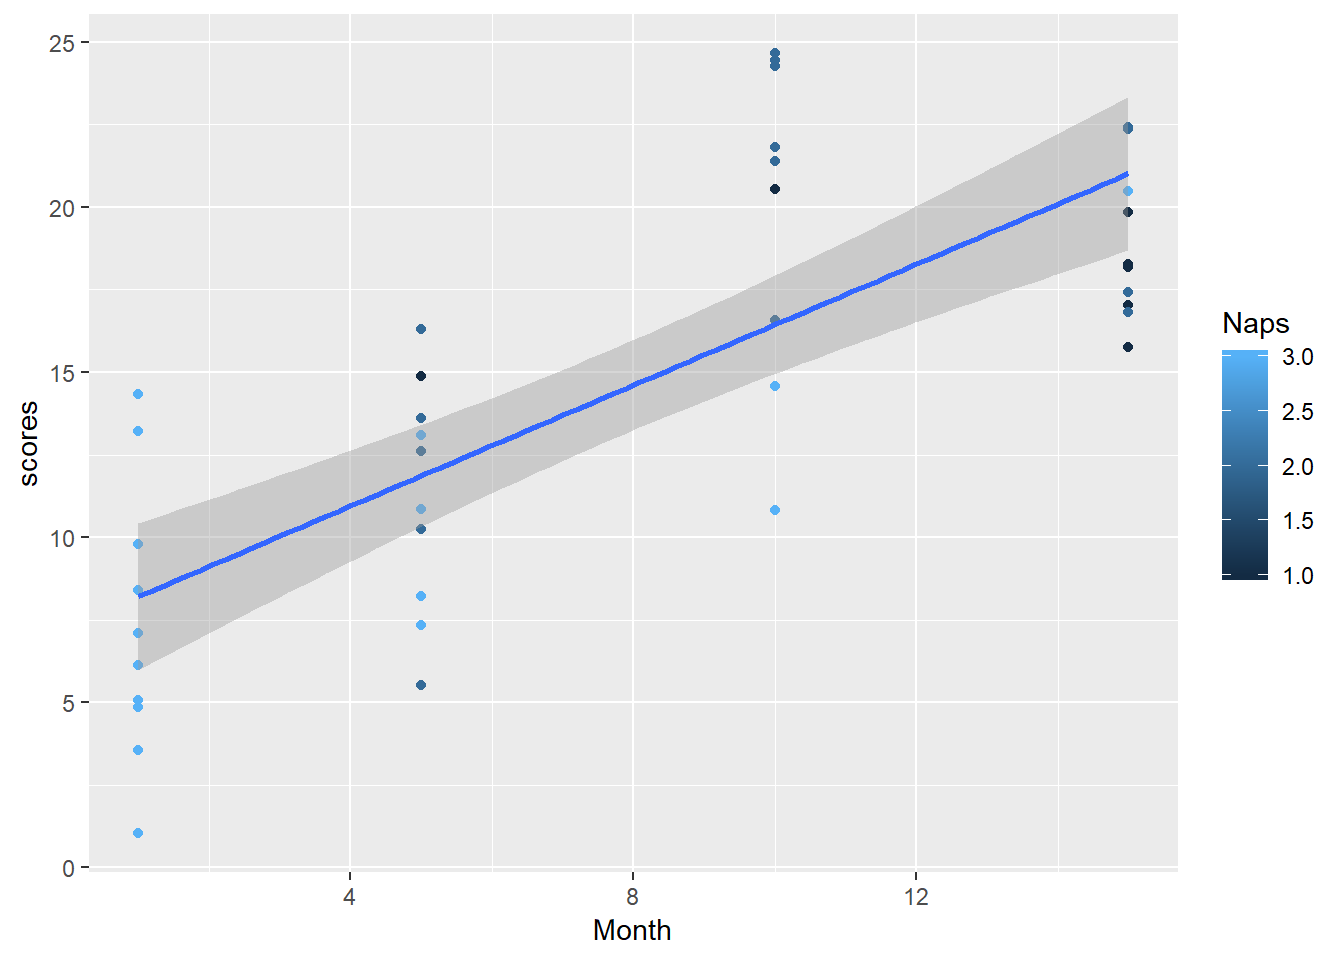
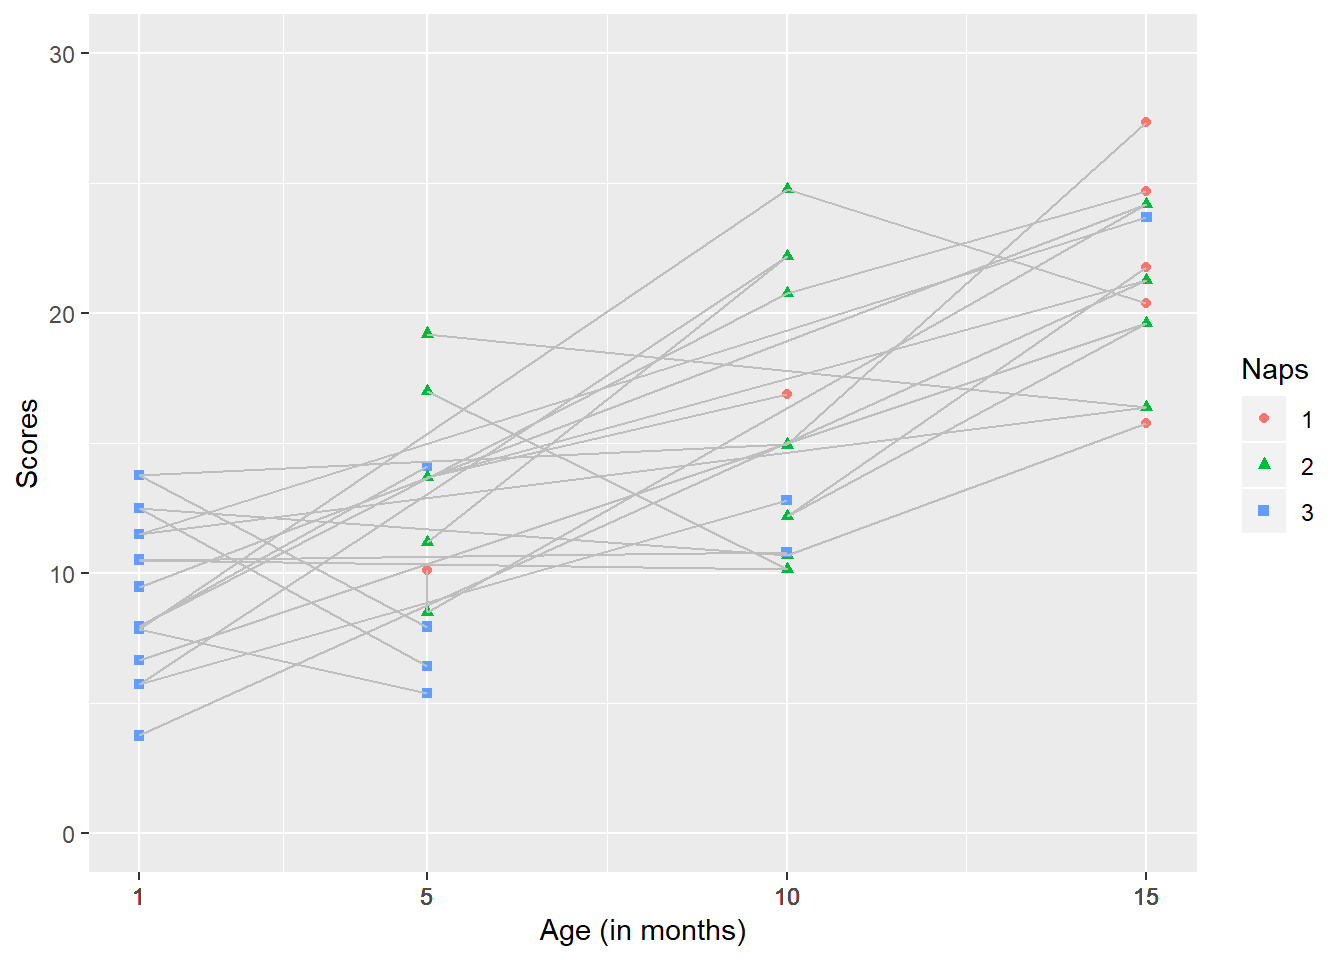
final

diff --git a/docs/tutorial_Horger.html b/docs/tutorial_Horger.html
@@ -370,9 +370,8 @@ library(nlme)</code></pre>
 <h3>The arguments for this function</h3>
 <p>lme(model, data, fixed, random, groups, start, correlation, weights, subset, method, na.action, naPattern, control, verbose)</p>
 </div>
-</div>
-<div id="an-example-does-the-number-of-daily-naps-impact-infant-performance-on-a-thing" class="section level2">
-<h2>An example: Does the number of daily naps impact infant performance on a thing?</h2>
+<div id="an-example-does-the-number-of-daily-naps-impact-infant-performance-on-a-thing" class="section level3">
+<h3><strong>An example: Does the number of daily naps impact infant performance on a thing?</strong></h3>
 <pre class="r"><code>#creating a data set 
 
 Subs &lt;- rep(c(seq(1:10)), 4)
@@ -381,86 +380,63 @@ Month &lt;- c(rep(c(1), 10), rep(c(5), 10), rep(c(10), 10), rep(c(15), 10))
 
 Naps &lt;- c(rep(c(3), 10), 2, 3, 2, 1, 2, 3, 2, 3, 2, 3, 2, 2, 2 ,2, 3, 3, 2, 2, 1, 2, 3, 1, 2, 2, 1, 1, 2, 1, 2, 1 )
 
+Naps &lt;- as.factor(Naps)
+
+
+
 scores &lt;- c(runif(10, 1, 15), runif(10, 5, 20), runif(10, 10, 25), runif(10, 15, 30))
 
 dataset &lt;- data.frame(Subs, Month, Naps, scores)</code></pre>
-<p>This is a longitudinal three level model with repeated measures of individuals with different 3 levels of naps</p>
+<div id="this-is-a-longitudinal-three-level-model-with-repeated-measures-of-individuals-with-different-3-levels-of-naps-1-2-or-3-per-day." class="section level4">
+<h4>This is a longitudinal three level model with repeated measures of individuals with different 3 levels of naps (1, 2, or 3 per day).</h4>
+</div>
+<div id="we-will-run-a-conditional-growth-model-because-we-are-including-predictors.-subsequent-fixed-and-random-effects-are-now-conditioned-on-the-predictors." class="section level4">
+<h4>We will run a conditional growth model because we are including predictors. Subsequent fixed and random effects are now “conditioned on” the predictors.</h4>
 <pre class="r"><code>#Conditional growth model
-tutorial&lt;-lme(scores ~ Month * Naps, random = ~ Month | Subs, data=dataset)
-
-#model = we expect scores will be influenced by how old infants are (Month) and the number of Naps they take per day. Random error comes from the fact that this is a within subjects design 
-
-#The inclusion of predictors in the model results in what is often called a conditional growth model because the fixed and random effects are now “conditioned on” the predictors. 
-
-summary(tutorial)</code></pre>
-<pre><code>## Linear mixed-effects model fit by REML
-##  Data: dataset 
-##        AIC      BIC    logLik
-##   237.8553 250.5234 -110.9276
-## 
-## Random effects:
-##  Formula: ~Month | Subs
-##  Structure: General positive-definite, Log-Cholesky parametrization
-##             StdDev       Corr  
-## (Intercept) 8.378913e-01 (Intr)
-## Month       3.839736e-05 0     
-## Residual    3.951022e+00       
-## 
-## Fixed effects: scores ~ Month * Naps 
-##                 Value Std.Error DF   t-value p-value
-## (Intercept) 21.732649  5.882959 27  3.694170  0.0010
-## Month       -0.223261  0.475878 27 -0.469155  0.6427
-## Naps        -5.299397  2.101362 27 -2.521887  0.0179
-## Month:Naps   0.423541  0.186675 27  2.268874  0.0315
-##  Correlation: 
-##            (Intr) Month  Naps  
-## Month      -0.915              
-## Naps       -0.980  0.911       
-## Month:Naps  0.792 -0.942 -0.838
-## 
-## Standardized Within-Group Residuals:
-##        Min         Q1        Med         Q3        Max 
-## -2.1224729 -0.6269678 -0.2288842  0.4464757  1.8387814 
-## 
-## Number of Observations: 40
-## Number of Groups: 10</code></pre>
-<pre class="r"><code>print(summary(tutorial))</code></pre>
-<pre><code>## Linear mixed-effects model fit by REML
-##  Data: dataset 
-##        AIC      BIC    logLik
-##   237.8553 250.5234 -110.9276
-## 
-## Random effects:
-##  Formula: ~Month | Subs
-##  Structure: General positive-definite, Log-Cholesky parametrization
-##             StdDev       Corr  
-## (Intercept) 8.378913e-01 (Intr)
-## Month       3.839736e-05 0     
-## Residual    3.951022e+00       
-## 
-## Fixed effects: scores ~ Month * Naps 
-##                 Value Std.Error DF   t-value p-value
-## (Intercept) 21.732649  5.882959 27  3.694170  0.0010
-## Month       -0.223261  0.475878 27 -0.469155  0.6427
-## Naps        -5.299397  2.101362 27 -2.521887  0.0179
-## Month:Naps   0.423541  0.186675 27  2.268874  0.0315
-##  Correlation: 
-##            (Intr) Month  Naps  
-## Month      -0.915              
-## Naps       -0.980  0.911       
-## Month:Naps  0.792 -0.942 -0.838
-## 
-## Standardized Within-Group Residuals:
-##        Min         Q1        Med         Q3        Max 
-## -2.1224729 -0.6269678 -0.2288842  0.4464757  1.8387814 
-## 
-## Number of Observations: 40
-## Number of Groups: 10</code></pre>
+tutorial&lt;-lme(scores ~ Month * Naps, random = ~ Month | Subs, data=dataset)</code></pre>
+<p><strong>lme(model, random, data)</strong></p>
+<p><strong>model</strong> - scores ~ Month * Naps</p>
+<p>We expect scores will be influenced by how old infants are (Month) and the number of Naps they take per day. There may be an interaction between these predictors.</p>
+<p><strong>random</strong> - random = ~ Month | Subs</p>
+<p>Random error comes from the fact that this is a within subjects design. The same infants are assessed at 1 month, 5 months, 10 months, and 15 months.</p>
+<p><strong>data</strong> - data=dataset</p>
+<p>Using the data set we created previously.</p>
+</div>
+<div id="we-can-move-the-results-to-a-nicer-table-using-the-summary-function" class="section level4">
+<h4>We can move the results to a nicer table using the summary function</h4>
+<pre class="r"><code>#summarize an lme object - our solution
+tut&lt;- summary(tutorial)
+tabl = tut$tTable 
+tabl </code></pre>
+<pre><code>##                  Value Std.Error DF    t-value    p-value
+## (Intercept)  4.5581755 5.8197476 25  0.7832256 0.44085175
+## Month        1.1727985 0.4399407 25  2.6658107 0.01326523
+## Naps2        5.8454034 6.5415686 25  0.8935782 0.38006944
+## Naps3        2.9249381 5.9819197 25  0.4889631 0.62913010
+## Month:Naps2 -0.5271529 0.5286370 25 -0.9971925 0.32822570
+## Month:Naps3 -0.4994257 0.5037190 25 -0.9914768 0.33095272</code></pre>
 <p>From this analysis, we would conclude that there is a main effect of age, infants performance improved with age, but there is no effect of number of naps. It was trending in the correct direction as the only negative slope.</p>
-<pre class="r"><code>ggplot2::ggplot(dataset, aes(x=Month, y=scores,  color=Naps)) + 
+</div>
+<div id="we-can-also-graph-our-results." class="section level4">
+<h4>We can also graph our results.</h4>
+<pre class="r"><code>plot&lt;- 
+ggplot2::ggplot(dataset, aes(x=Month, y=scores,  color=Naps, shape = Naps), xlim(1, 15), ylim(0, 25), xlab(Month) ) + 
   geom_point()+
-  geom_smooth(method=lm)</code></pre>
+
+  geom_line(group=Subs, color=&quot;grey&quot;)
+
+plot + scale_x_continuous(name=&quot;Age (in months)&quot;, limits=c(1, 15), breaks = Month) +
+  scale_y_continuous(name=&quot;Scores&quot;, limits=c(0, 30))</code></pre>
 <p><img src="tutorial_Horger_files/figure-html/unnamed-chunk-6-1.png" width="672" /></p>
+<p>This kind of graph makes it more clear that there are 2 developmental trends occuring here- Infants’ performance on the assessment is improving with time and the average number of naps they take is decreasing with time.</p>
+</div>
+</div>
+</div>
+<div id="references" class="section level2">
+<h2>References</h2>
+<p>Curran, P. J., Obeidat, K., &amp; Losardo, D. (2010). Twelve Frequently Asked Questions About Growth Curve Modeling. Journal of cognition and development : official journal of the Cognitive Development Society, 11(2), 121–136. <a href="doi:10.1080/15248371003699969" class="uri">doi:10.1080/15248371003699969</a></p>
+<p>Maindonald, J. (2007). Chapter 10: Multi-level models and repeated measures. In J. Maindonald &amp; J. Braun (Eds.), Data analysis and graphics using R: An example-based approach. Cambridge: Cambridge University Press.</p>
+<p><a href="https://cran.r-project.org/web/packages/nlme/nlme.pdf" class="uri">https://cran.r-project.org/web/packages/nlme/nlme.pdf</a></p>
 </div>
 </div>
 
